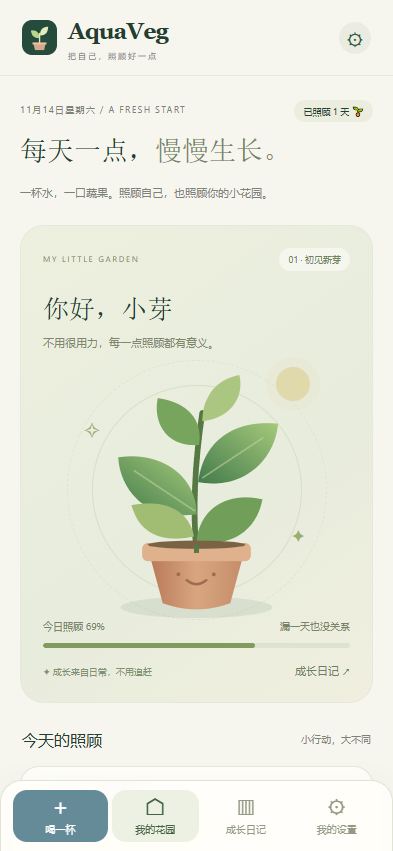
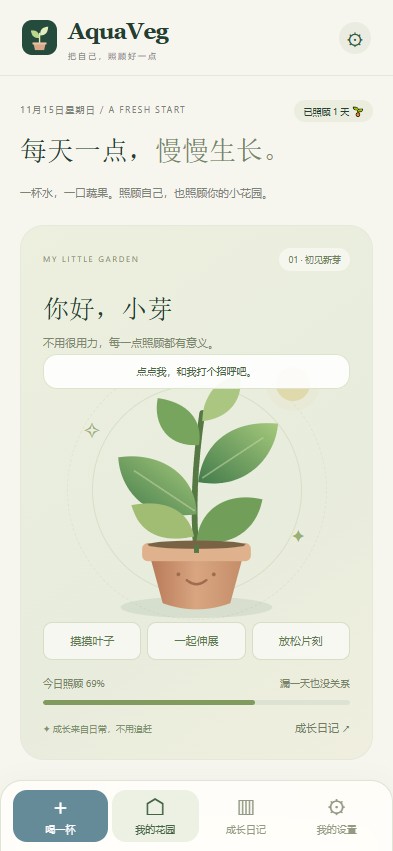
Introduce movement reminders and plant interactions

diff --git a/README.md b/README.md
@@ -4,13 +4,15 @@
 
 一杯水，一口蔬果。用几秒钟记录日常饮水和蔬果摄入，让每一次照顾自己的小行动，都变成植物的新芽。
 
-[下载 Android 安装包](https://github.com/Guo-4869/AquaVeg/releases/download/v0.1.0/AquaVeg-0.1.0.apk) · [版本与更新](https://github.com/Guo-4869/AquaVeg/releases) · [安装说明](INSTALL.md) · [问题反馈](https://github.com/Guo-4869/AquaVeg/issues)
+[下载 Android 安装包](https://github.com/Guo-4869/AquaVeg/releases/download/v0.2.0/AquaVeg-0.2.0.apk) · [版本与更新](https://github.com/Guo-4869/AquaVeg/releases) · [安装说明](INSTALL.md) · [问题反馈](https://github.com/Guo-4869/AquaVeg/issues)
 
 ## 轻一点，也能坚持
 
 - **喝水只需点一下**：固定“喝一杯”入口，支持快捷杯量与自定义记录，记错可以撤销。
 - **蔬果分开记**：选择估算份量或填写克数，随手记录每天吃下的新鲜食物。
 - **照顾你的植物**：饮水和蔬果各自贡献成长，漏记不掉叶、不惩罚。
+- **和小芽互动**：点击问候、摸摸叶子、一起伸展、放松动画。
+- **久坐提醒**：安卓通知与短震动，支持静默时段、活动确认和稍后提醒。
 - **看见自己的进步**：今日进度、七日趋势与历史记录，积累每一点改变。
 - **按自己的节奏来**：调整个人目标、提醒时段与间隔，可以稍后提醒或跳过。
 - **本机保存**：离线可用，无需账号；支持导出和恢复个人备份。
@@ -23,19 +25,20 @@
   <img src="images/garden.png" width="30%" alt="AquaVeg 植物花园首页" />
   <img src="images/daily-record.png" width="30%" alt="饮水和蔬果快捷记录" />
   <img src="images/history.png" width="30%" alt="七日趋势和历史记录" />
+  <img src="images/movement.png" width="30%" alt="久坐活动与震动提醒设置" />
 </p>
 
 ## 当前版本
 
-**v0.1.0 · Android 测试版**，支持 Android 9 及以上。
+**v0.2.0 · Android 测试版**，支持 Android 9 及以上。
 
-用户已反馈在 **Magic8 / Android 17** 上完成真机验证。不同系统和机型的表现仍可能不同，欢迎通过 Issues 反馈使用体验。
+0.1.0 曾由用户在 **Magic8 / Android 17** 上完成真机验证；本次 0.2.0 新功能仍待真机验收。不同系统和机型的表现仍可能不同，欢迎通过 Issues 反馈使用体验。
 
-当前提醒仅在应用前台页面运行；锁屏、切换后台或关闭后不能保证提醒。系统后台通知、小组件、拍照识别和家人协同暂未提供。
+久坐活动提醒支持安卓系统通知和短震动，可设间隔与时段，并在通知中选择“已活动”或“10 分钟后”。需允许通知；省电、勿扰及系统通知设置可能延迟提醒或关闭震动，强行停止应用后需重新打开。饮水提醒仍仅在前台页面运行。小组件、拍照识别和家人协同暂未提供。
 
 ## 隐私与使用
 
-应用不申请额外权限，不包含广告或分析 SDK。记录保存在当前应用中，不会自动上传；你主动导出的备份文件由你自行保管。卸载或清除应用数据会删除本机记录，请提前备份。
+开启活动提醒时会申请通知权限；使用震动和开机后恢复提醒所需权限。不读取运动传感器、通讯录或位置，不联网，不包含广告或分析 SDK。记录保存在当前应用中，不会自动上传；你主动导出的备份文件由你自行保管。卸载或清除应用数据会删除本机记录，请提前备份。
 
 健康目标参考[中国营养学会《膳食指南（2022）》](https://www.cnsoc.org/bookpublica/0522202019.html)，可自行调整。成人参考值有适用条件，特殊健康需求应使用专业建议中的目标；本应用不替代医疗建议。蔬果份量为记录估算，不是称重或识别结果。
 

diff --git a/INSTALL.md b/INSTALL.md
@@ -2,18 +2,18 @@
 
 ## 安装
 
-1. 打开 [AquaVeg Releases](https://github.com/Guo-4869/AquaVeg/releases)，下载 `AquaVeg-0.1.0.apk`。同页 `SHA256SUMS.txt` 提供安装包校验值。
+1. 打开 [AquaVeg Releases](https://github.com/Guo-4869/AquaVeg/releases)，下载 `AquaVeg-0.2.0.apk`。同页 `SHA256SUMS.txt` 提供安装包校验值。
 2. 在手机中打开 APK。如系统提示，按需临时允许你用于打开 APK 的可信应用安装未知来源应用；安装后可关闭该授权。
 3. 保留系统安全扫描。AquaVeg 不需要通讯录、位置、摄像头、麦克风等额外权限，也不需要登录账号。
 4. 首次打开选择适合自己的目标，之后可随时在“我的设置”中修改。
 
-支持 Android 9 及以上。已收到用户在 Magic8 / Android 17 完成真机验证的反馈；不能据此保证所有设备都没有兼容问题。建议保持 Android System WebView 更新。
+支持 Android 9 及以上。0.1.0 已收到用户在 Magic8 / Android 17 完成真机验证的反馈，新版活动提醒和震动仍待真机验证；不能据此保证所有设备都没有兼容问题。建议保持 Android System WebView 更新。
 
 ## 日常记录
 
 点底部“喝一杯”记录默认杯量，或者选择自定义量。蔬菜和水果分别记录，可用快捷估算份量，也可填写实际克数。记错后可以撤销，历史记录也可以删除。
 
-提醒是**前台页面内提醒**，适合打开应用时使用。锁屏、切换后台或关闭后不保证送达；当前没有后台通知或系统小组件，不要将其作为医疗提醒工具。
+在“我的设置 → 久坐活动 · 震动提醒”开启功能，允许通知后保存时段和间隔。可用“试一下手机震动”验证短震动；系统通知里可点“已活动”或“10 分钟后”。提醒按时间间隔计时，不检测实际久坐；省电、勿扰和通知通道设置可能抑制或延迟提醒，强行停止后须重新打开应用。饮水提醒仍仅在前台运行，不作为医疗提醒。点树苗可问候，三个按钮分别摸叶子、一起伸展、放松；确认已活动请使用“我已起身活动”。
 
 ## 备份与恢复
 
@@ -27,3 +27,7 @@
 如遇启动失败、显示异常或退出，请在 [Issues](https://github.com/Guo-4869/AquaVeg/issues) 描述触发操作、手机型号、系统版本以及 WebView 版本。截图前请遮盖个人信息。
 
 应用按现状提供，不能承诺所有系统和设备永不崩溃。许可条件见 [LICENSE](LICENSE)。
+
+## 从旧版升级
+
+直接安装新版 APK 覆盖更新，保留原有饮水和蔬果记录；不要先卸载旧版。仍建议更新前导出个人备份。活动提醒默认关闭，需主动开启并允许通知。
